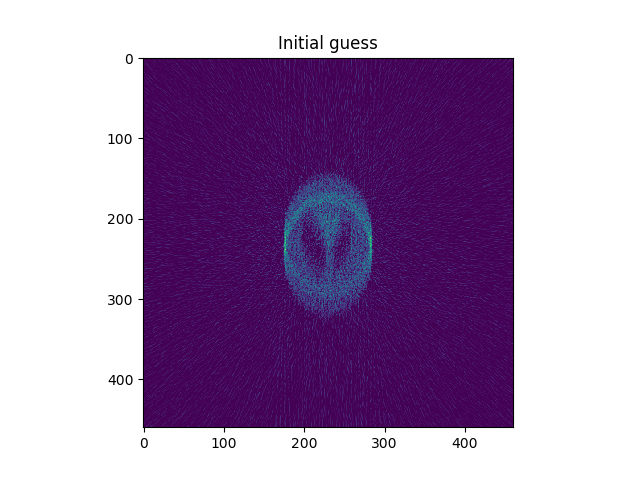
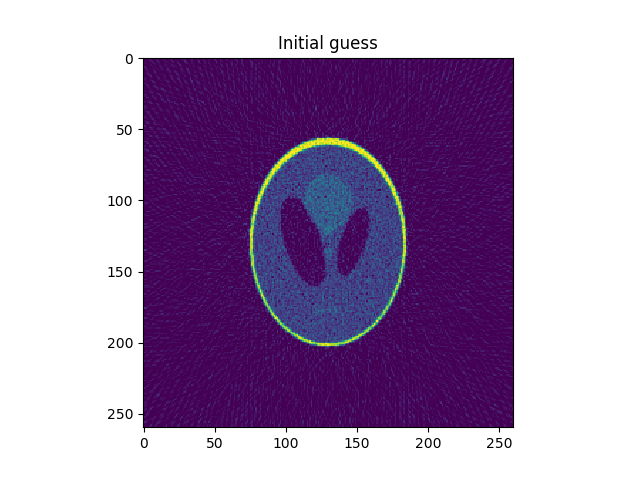
Revert "Added noise"
This reverts commit 84e856d3aba273aa0759ae15a125ed4e8804fb09.

diff --git a/STIROefeningManon/MotionModelProjSpaceNoSTIR/MotionModelProjSpaceNoSTIR.py b/STIROefeningManon/MotionModelProjSpaceNoSTIR/MotionModelProjSpaceNoSTIR.py
@@ -8,12 +8,12 @@ import scipy as sp
 
 #_________________________CONFIGURATION_______________________________
 phantom = 'Shepp-Logan' 
-#noise = False
-noise = True
+noise = False
+#noise = True
 #motion = 'Step' 
 motion = 'Sine'
-#stationary = True 
-stationary = False # Only possible for sinusoidal motion 
+stationary = True 
+#stationary = False # Only possible for sinusoidal motion 
 
 nIt = 10
 trueShiftAmplitude = 15 # Kan niet alle waardes aannemen (niet alle shifts worden geprobeerd) + LET OP: kan niet groter zijn dan de lengte van het plaatje (kan de code niet aan) 
@@ -21,7 +21,7 @@ trueOffset = 5
 numFigures = 0 
 duration = 60 # in seconds
 if (motion == 'Step'): nFrames = 2
-else: nFrames = 40
+else: nFrames = 10
 gating = False
 
 dir = './Figures/'
@@ -65,8 +65,8 @@ for iFrame in range(nFrames):
 plt.suptitle('Measurements'), plt.savefig(figSaveDir + 'Fig{}_TrueShift{}_measurements.png'.format(numFigures, trueShiftAmplitude)), plt.close()
 numFigures += 1 
 
-plt.subplot(1,2,1), plt.title('Without noise'), plt.imshow(measNoNoise, interpolation=None, vmin = 0, vmax = 10)
-plt.subplot(1,2,2), plt.title('With noise'), plt.imshow(measWithNoise, interpolation=None, vmin = 0, vmax = 10)
+plt.subplot(1,2,1), plt.title('Without noise'), plt.imshow(measNoNoise, interpolation=None, vmin = 0, vmax = 1000)
+plt.subplot(1,2,2), plt.title('With noise'), plt.imshow(measWithNoise, interpolation=None, vmin = 0, vmax = 1000)
 plt.suptitle('Time Frame 1'), plt.savefig(figSaveDir + 'Fig{}_TrueShift{}_measurementsWithWithoutNoise.png'.format(numFigures, trueShiftAmplitude)), plt.close()
 numFigures += 1 
 
